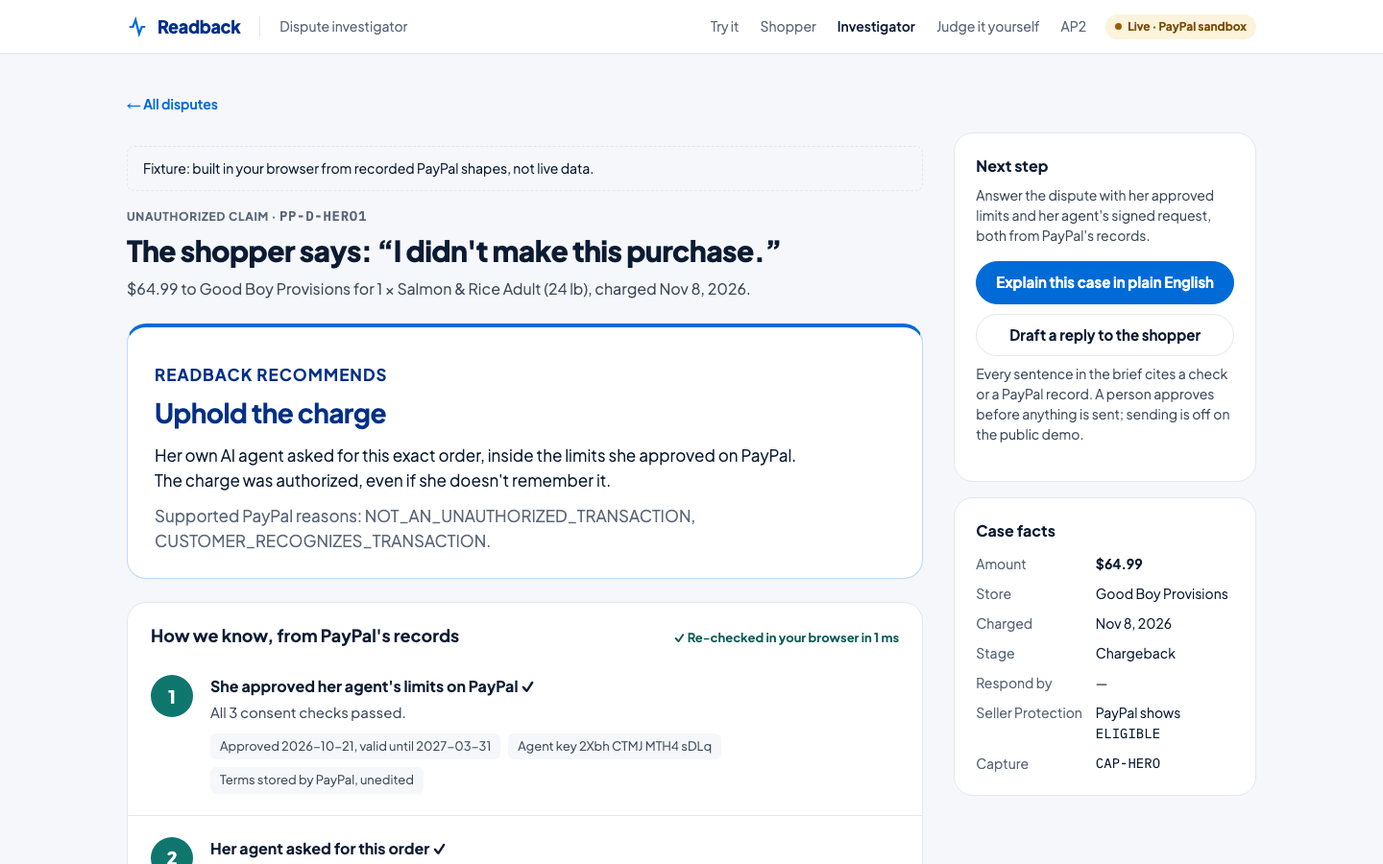
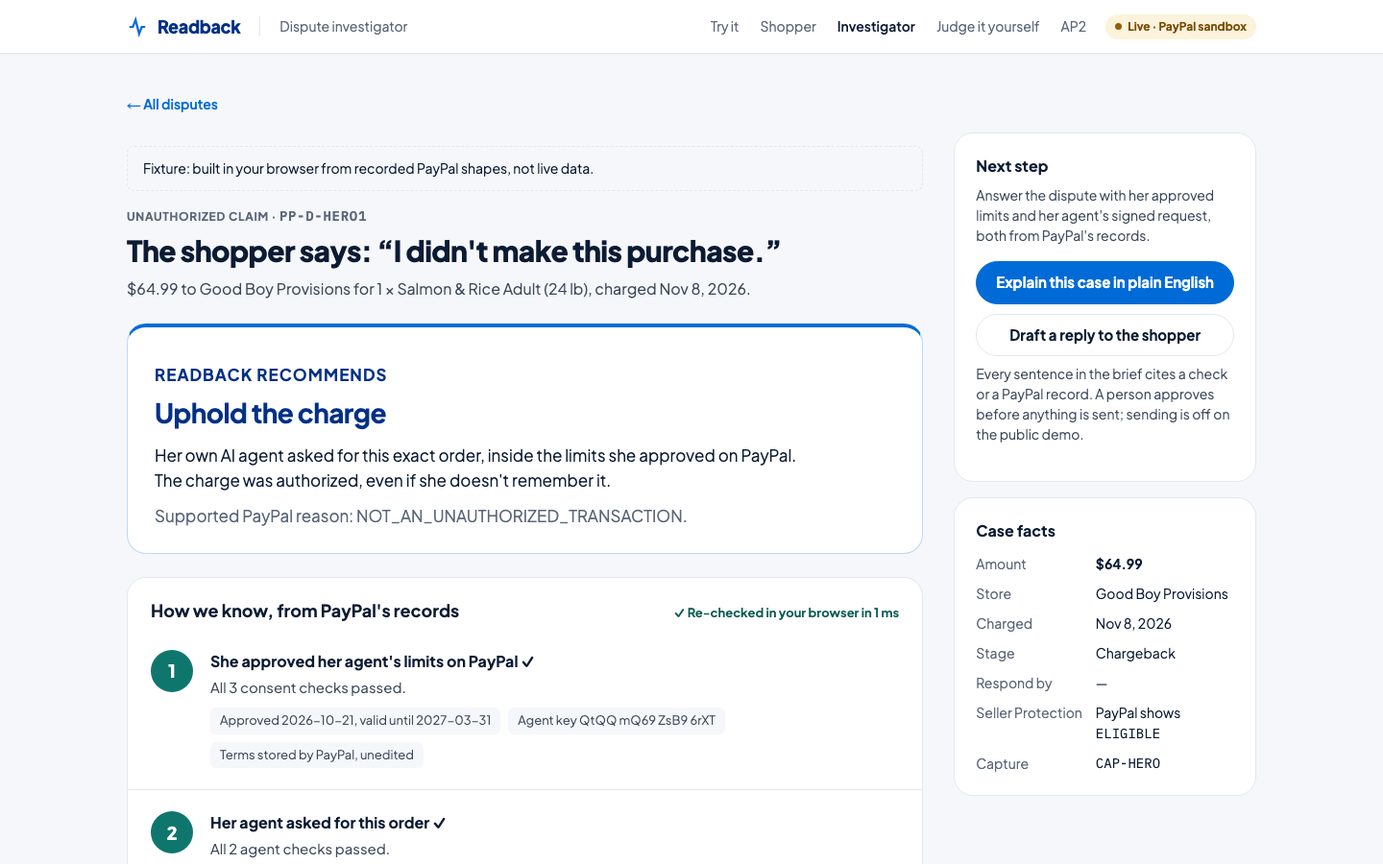
docs: state seller-favor's real precondition; record the Oct 25 audit (ADR 0006)
Every claim that a merchant can't fabricate the shopper's agent now says the
key binding comes from an honest setup (T21), and that PayPal doesn't keep the
summary she saw. "PayPal enforces one charge per period" says while the
merchant's duplicate-invoice blocking is on. WHY-PAYPAL adds that a shopper is
never worse off than under a plain billing agreement, and no longer claims a
label-stripped direct charge stays linked. SPEC §5.6 matches the engine (rows
9, 10, 13; check 3's window; check 10's DELIVERED; history built from payments
only; the threshold guarding every seller-favor row). THREAT-MODEL states the
delegation policy (T1), the labeled-only fallback (T2) and key custody (T16).

diff --git a/docs/SPEC.md b/docs/SPEC.md
@@ -15,7 +15,7 @@ Research current as of Oct 14, 2026. This revision incorporates an independent s
 
 **Maya tells her AI once what it may buy. PayPal holds that promise, her agent signs every purchase, and when anyone says "my AI bought that," the truth takes one click.**
 
-- **Consent.** Maya approves her agent's terms on PayPal's own approval page: merchant, item, cap, cadence, dates, and her agent's key fingerprint. PayPal stores them, and nobody can edit them afterward.
+- **Consent.** Maya approves her agent's terms on PayPal's own approval page, which shows a summary carrying her agent's key fingerprint. PayPal stores the exact terms (merchant, item, cap, cadence, dates, fingerprint), and nobody can edit them afterward. PayPal doesn't keep the summary she saw (spike step 2), so the key binding rests on an honest setup and her fingerprint comparison (T21); seller-favor suggestions therefore also require history (check 11).
 - **The agent.** Her assistant (Claude, or any MCP-capable assistant) is the brain. It holds no keys and has no way to pay. A small **agent runtime** on Maya's side holds the agent's private key (P-256), checks each request against her terms, and signs an **AP2-style closed mandate**.
 - **Purchases.** Each purchase is a PayPal order charged under the agreement. It carries:
   - the signed mandate;
@@ -72,7 +72,7 @@ Full sourcing in `docs/WHY-PAYPAL.md`. The essentials:
 - the first to draft disputes with AI.
 
 ### 1.1 Who adopts it
-- **Shoppers** get a hard limit their agent can't exceed, a receipt that shows what they agreed to, and a merchant who can't charge in their agent's name.
+- **Shoppers** get a hard limit their agent can't exceed, a receipt that shows what they agreed to, and a merchant who can't charge in their agent's name without a signature by the key bound at setup (an honest setup is the precondition, T21).
 - **Merchants** adopt it because it wins the disputes they should win. It's believed because it recommends refunds for the ones they should lose. Integrating it is about 10 lines on top of an existing PayPal integration (§5.8).
 - **PayPal** is the natural long-term owner. One API addition, in `docs/PROPOSAL-agent-terms.md`, makes the key binding PayPal-attested and closes the remaining gaps.
 - **Agents** only need to speak MCP; the runtime does the rest.
@@ -104,7 +104,7 @@ Full sourcing in `docs/WHY-PAYPAL.md`. The essentials:
 | Agreement type | Payment token | `usage_pattern: RECURRING_PREPAID` (PayPal refuses a `billing_plan` with `UNSCHEDULED_PREPAID`; spike step 2), `usage_type: MERCHANT`, `customer_type: CONSUMER`, `permit_multiple_payment_tokens: true` | No |
 | Who approved | Payment token | `payer_id`, `email_address`, `customer.id` | No |
 | Terms shown on PayPal's approval page | Setup token request | `billing_plan.name` only, prefixed "to <brand>:" (display only; merchant-supplied; **not returned** on GET). The stored `description` is never shown to the buyer (spike step 2) | n/a |
-| Which agreement a charge used | Order | PayPal's `payment_source.paypal.attributes.vault.id` if present; **the sandbox never sends it** (spike step 3). Otherwise the agreement the labels (`custom_id`, `invoice_id`) name, accepted only with PayPal's payer match (check 2a). `stored_credential` is merchant-declared, shown but never decisive | No |
+| Which agreement a charge used | Order | PayPal's `payment_source.paypal.attributes.vault.id` if present; **the sandbox never sends it** (spike step 3). Otherwise the agreement the labels (`custom_id`, `invoice_id`) name, accepted only with PayPal's payer match (check 2a). The payer match shows the agreement belongs to the payer charged, not that this agreement (rather than another of hers with the same merchant) paid, so the link is partly merchant-asserted; it can count for the merchant only together with her agent's signature for that same agreement. `stored_credential` is merchant-declared, shown but never decisive | No |
 | The agent's signed request | Order | `purchase_units[0].items[0].description` (≤2048 retained): the compact JWS | Merchant writes it, but can't forge it without the agent's private key |
 | Each charge | Order and capture | amounts and `amount.breakdown`; `items[]` (`name`, `sku`, `quantity`, `unit_amount`); `invoice_id`; `custom_id`; `purchase_units[0].description` | Merchant sets labels; PayPal records amounts, payer, time, and payment source |
 | One charge per period | Order | Canonical `invoice_id = RB-<tokenId>-P<NNN>`; PayPal rejects duplicates (`DUPLICATE_INVOICE_ID`) by default | — |
@@ -371,15 +371,15 @@ Sam can:
 | 1 | Consent | **Consent on PayPal** | A payment token exists, its `payer_id` matches the order's `payer.payer_id`, and its terms parse. If the token was deleted, the secondary copy from the charges is used and labeled. |
 | 2a | Consent | **Agreement link** | PayPal's vault echo (`attributes.vault.id`) if present; otherwise the agreement named by `custom_id` and/or `invoice_id` (labels that name different agreements = no link). A label-named agreement counts only with PayPal's payer match (check 1). If the agreement is gone and there's no echo, the link is secondary, which withholds a seller-favor suggestion only. Rule: merchant-written labels can count against the merchant, never for it; the signature by the approved key for that agreement (check 3) is what can favor the merchant. History entries (check 11) count only with PayPal's payer match plus a mandate signed by the approved key naming this agreement. `stored_credential` is merchant-declared and never decides a check. |
 | 2b | Agent | **Labels present** | `custom_id` and `invoice_id` parse and name that token. |
-| 3 | Agent | **Requested by her agent** | The JWS passes hygiene and verifies. Its key's thumbprint prefix equals the approved fingerprint. Its payload matches the order (`agr`, SKU, quantity, unit, amount, `p`). The capture time is within `[iat − 60s, exp + 60s]`. No other capture under the token carries the same mandateHash. |
+| 3 | Agent | **Requested by her agent** | The JWS passes hygiene and verifies. Its key's thumbprint prefix equals the approved fingerprint. Its payload matches the order (`agr`, SKU, quantity, unit and amount compared as integer cents, `p`). The capture time is within `[iat − 120s, exp + 60s]`: the gate accepts `iat` up to 60 s ahead of its clock and stops 60 s before `exp`, and PayPal's clock may be 60 s off (T27). No other capture under the token carries the same mandateHash. |
 | 4 | Consent | **Active at charge** | The capture completed with the saved wallet, which PayPal refuses on cancelled agreements. No deletion event before the capture time, if events are retrievable. |
 | 5 | Terms | **Within cap** | `amount.value` (integer cents) ≤ cap, and equals the signed `amt`. |
 | 6 | Terms | **Approved item** | Order SKU and quantity match the terms and the signed mandate. |
 | 7 | Terms | **One per period** | `invoice_id` byte-equals the canonical `RB-<tokenId>-P<NNN>`, with NNN = period(`iat`) = `p`. While PayPal's duplicate blocking is on, at most one charge exists per period. If blocking is off **[spike]**, this must be the earliest completed capture of its period. |
 | 8 | Terms | **Within dates** | `iat` and the capture time fall within the dates. |
 | 9 | Terms | **Bound to these terms** | `th` and the termsHash in `custom_id` equal the hash of the token's terms and of the charge's description copy. |
-| 10 | Delivery | **Fulfilled (merchant-reported)** | A tracker on the order with status SHIPPED, and the order's shipping address equals the shipping address on the payment token (approved at setup), when the token has one. |
-| 11 | Delivery | **History** | Prior captures under this agreement with no dispute (via `disputed_transaction_id`), and their age. **Provisional** while the capture is under 3 hours old. Inspired by Visa CE 3.0, but weaker. |
+| 10 | Delivery | **Fulfilled (merchant-reported)** | A tracker on the order with status SHIPPED or DELIVERED, and the order's shipping address equals the shipping address on the payment token (approved at setup), when the token has one. |
+| 11 | Delivery | **History** | Prior captures under this agreement with no dispute (via `disputed_transaction_id`), fully completed (refunded ones don't count), each verified through PayPal, and their age. History is built from Transaction Search payments only (`T00xx`, not denied), each capture once. **Provisional** while the capture is under 3 hours old. Inspired by Visa CE 3.0, but weaker. |
 
 **Classification** (deterministic; first match wins; every result lists all failed checks). In preview mode (a capture with no dispute), the reason is treated as UNAUTHORISED: rows 1–4 and 11–13 apply, and rows 0 and 5–10 can't match. The view is labeled "if disputed."
 
@@ -394,18 +394,18 @@ Sam can:
 | 6 | NOT_RECEIVED and check 10 passes | Shipment reported (merchant-attested) | None; supply `PROOF_OF_FULFILLMENT` |
 | 7 | NOT_AS_DESCRIBED | Item matches the signed and approved SKU; contents unverifiable | None |
 | 8 | INCORRECT_AMOUNT | Amount as authorized | `SELLER_FAVOR` |
-| 9 | DUPLICATE_TRANSACTION | Single charge in its period | `SELLER_FAVOR` |
-| 10 | CANCELED_RECURRING_BILLING | Charged before cancellation | `SELLER_FAVOR` |
+| 9 | DUPLICATE_TRANSACTION | No other labeled charge in its period | None. Readback sees only labeled charges; PayPal sees every charge to the wallet (audit Oct 25) |
+| 10 | CANCELED_RECURRING_BILLING | In terms; the cancellation time isn't readable | None, until PayPal's cancellation record is readable (spike step 5) |
 | 11 | UNAUTHORISED and check 10 fails | Authorized by terms; fulfillment not shown | None |
 | 12 | UNAUTHORISED and history below threshold | Consent authenticity unverified | None; route to PayPal account review |
-| 13 | UNAUTHORISED, all checks pass, threshold met | First-party misuse | `SELLER_FAVOR`. Shows the PayPal reasons this evidence supports: `NOT_AN_UNAUTHORIZED_TRANSACTION`, `CUSTOMER_RECOGNIZES_TRANSACTION` |
+| 13 | UNAUTHORISED, all checks pass, threshold met | Signed by her approved agent, within her terms | `SELLER_FAVOR`. Shows the PayPal reason this evidence supports: `NOT_AN_UNAUTHORIZED_TRANSACTION` |
 
 **Modifiers:**
 - **Label-dependent parts are provisional.** Check 3's mandateHash-uniqueness part and check 11 read only label-bearing captures from Transaction Search. Both are **provisional** while a capture is under 3 hours old.
 - **Secondary terms.** Any `SELLER_FAVOR` that relied on the secondary terms copy is downgraded to **None**, labeled "terms merchant-attested only."
 - **Provisional history.** If history is provisional, any `SELLER_FAVOR` that depends on it becomes **None**.
 
-**History threshold** (a stated policy constant): at least 2 prior undisputed captures, the earliest at least 7 days before this one. A valid agent signature does **not** relax it, because whoever approved the agreement chose the key.
+**History threshold** (a stated policy constant): at least 2 prior undisputed captures, the earliest at least 7 days before this one. A valid agent signature does **not** relax it, because whoever approved the agreement chose the key. It guards **every** `SELLER_FAVOR` row, whatever reason the buyer filed under (audit Oct 25): below it, the suggestion becomes None.
 
 **After a sandbox ruling.** The page shows PayPal's own `adjudications[].reason`; sandbox `adjudicate` accepts only the outcome.
 

diff --git a/docs/WHY-PAYPAL.md b/docs/WHY-PAYPAL.md
@@ -56,7 +56,7 @@ None of this is legal advice. It is what the primary sources say, and it explain
 |---|---|---|
 | A transfer by someone the consumer gave access to is not "unauthorized" unless the consumer has told the institution to stop. | Reg E §1005.2(m)(1) [L1] | Consent given on PayPal's authenticated approval page; revocation as PayPal itself sees it (token deleted, charges refused) |
 | If that person exceeds the authority given, the consumer is liable until they notify the institution. | Reg E comment 2(m)-2 [L2] | The exact scope approved: merchant, item, cap, cadence, dates |
-| Preauthorized transfers must be authorized in writing, signed or similarly authenticated by the consumer. | Reg E §1005.10(b) [L3] | Approval on PayPal's own logged-in page, with the terms shown |
+| Preauthorized transfers must be authorized in writing, signed or similarly authenticated by the consumer. | Reg E §1005.10(b) [L3] | Approval on PayPal's own logged-in page. PayPal stores the merchant-declared terms at approval time and they can't be edited; the summary shown to her isn't retained (T21) |
 | Once notified of a revocation, the institution must block future payments. | Reg E comment 10(c)-2 [L3] | PayPal refuses charges on a cancelled agreement (`AGREEMENT_ALREADY_CANCELLED` at authorize/capture) [A3] |
 | Varying amounts need advance notice. The payee or institution may instead offer the consumer a range that could be anticipated. | Reg E §1005.10(d) and comment 10(d)(2)-1 [L3] | The approved cap ("up to $65 per order") can support that kind of range. Readback doesn't claim it satisfies the notice rule on its own |
 | Credit-card funding: unauthorized use means use without actual, implied, or apparent authority. | Reg Z §1026.12(b) [L4] | Same record of scope and revocation |
@@ -186,10 +186,10 @@ We don't claim a dollar figure for losses avoided. PayPal doesn't break out agen
    - **Closed mandates:** ES256-signed requests stored inside each PayPal order.
    - **Reuse without state:** AP2 handles reuse across purchases with constructs that require tracking previous presentations. Readback reuses one approval across periods statelessly, because PayPal's invoice uniqueness enforces one purchase per period.
    - No agent platform, network, or new credential issuer has to adopt anything.
-2. **Once the agreement is approved, a merchant can't fabricate the shopper's agent.** The signing key lives only with the shopper's agent. A charge with no valid signed request is therefore suggested for the buyer, even if it fits every term. Readback finds that charge through its labels, confirmed by PayPal's record of who paid; PayPal doesn't echo which saved wallet paid (spike step 3), so a merchant who strips both labels and the mandate leaves the charge unlinked from merchant-side data (no suggestion either way). Terms alone can't catch this case, and signatures alone can't decide it without PayPal's records. (Setup-time key substitution is a separate, documented risk; see the hard questions below.)
+2. **Once an honest setup has bound her agent's key, a merchant can't fabricate her agent's requests.** The signing key lives only with the shopper's agent, provided the fingerprint she approved is her agent's (T21). A charge with no valid signed request is therefore suggested for the buyer, even if it fits every term. Readback finds that charge through its labels, confirmed by PayPal's record of who paid; PayPal doesn't echo which saved wallet paid (spike step 3), so a merchant who strips both labels and the mandate leaves the charge unlinked from merchant-side data (no suggestion either way). Terms alone can't catch this case, and signatures alone can't decide it without PayPal's records. (Setup-time key substitution is a separate, documented risk; see the hard questions below.)
 3. **Terms that can't be edited.** The Vault API has no update operation for payment tokens. [A1] Once the shopper approves, the terms and the agent fingerprint are fixed. Changing them takes a new approval.
 4. **PayPal enforces two of the limits itself.**
-   - **One charge per period.** Each charge's invoice ID encodes its billing period, so PayPal rejects a second charge in the same period. This invoice-ID uniqueness is on by default but merchant-configurable. [A3]
+   - **One charge per period.** Each charge's invoice ID encodes its billing period, so PayPal rejects a second charge in the same period. This invoice-ID uniqueness is on by default but merchant-configurable. [A3] With it off, Readback still flags a later labeled charge in the same period, but a merchant who also strips the labels leaves that charge unlinked (T3).
    - **No charges on a cancelled agreement.** PayPal refuses them. [A3]
    - Cap, item, and dates are enforced by the agent's runtime and by the merchant gate, and re-checked from PayPal's records.
 5. **Built for the adjudicator.** The investigator gets three things:
@@ -231,9 +231,9 @@ Then the consent itself is fraudulent. In US terms, access obtained through frau
 You don't have to.
 - The terms and the agent fingerprint come from the payment token, which the merchant can't edit.
 - Charges, invoice IDs, trackers, and disputes come from PayPal's APIs.
-- The merchant can't forge the agent's signature, because the key lives only on the shopper's side.
+- The merchant can't forge the agent's signature, because the key lives only on the shopper's side, provided the fingerprint she approved is her agent's (T21).
 - The evidence file is a convenience. Its JSON appendix lists every PayPal object ID and the signed mandates, so anyone with API access to the merchant's account can re-derive every check.
-- A merchant who charges the saved wallet directly, bypassing the gate and stripping labels, is still linked to the agreement through PayPal's record of which saved wallet paid. With no valid signed request, the suggestion favors the buyer.
+- A merchant who charges the saved wallet directly and bypasses the gate is linked to the agreement through the labels it left plus PayPal's record of who paid. With no valid signed request, the suggestion favors the buyer. If it strips both labels and the mandate, the charge is unlinked from merchant-side data and Readback makes no suggestion either way (spike step 3, T3).
 - Where only merchant-written data is available (for example, terms read from charge copies after the shopper deletes the agreement), Readback labels it and withholds any seller-favor suggestion.
 - **What remains, stated honestly:**
   - In this build, the investigator page is served by the merchant's deployment, so results are re-derivable but not independent. PayPal hosting it would make it independent.
@@ -268,7 +268,7 @@ We found no PayPal document that says either way. Readback doesn't assert it. It
 
 **Who adopts it:**
 - **Merchants adopt it now.** It wins the disputes they should win, and it's only believed because it recommends refunds for the ones they should lose.
-- **Shoppers get a hard limit.** Their agent can't spend outside what they approved on PayPal, and a merchant can't charge in their agent's name without a signature.
+- **Shoppers get a hard limit.** Their agent can't spend outside what they approved on PayPal, and a merchant can't charge in their agent's name without a signature by the key bound at setup (an honest setup is the precondition, T21). A shopper is never worse off than under a plain billing agreement: the most a dishonest adopter gains is charging without her agent asking, bounded by the cap and the cadence.
 - **PayPal is the natural long-term owner.**
 
 **From the hackathon build:**
@@ -306,7 +306,7 @@ That closes the remaining gaps (setup-time key swap, terms after revocation, uns
   - duplicate-invoice blocking;
   - whether unauthorized disputes open as inquiries;
   - what happens when the buyer cancels from their side.
-- **Reporting delay.** Charge history comes from Transaction Search, which can lag up to three hours. [A5] This affects history checks only. Duplicate-period protection is enforced by PayPal at charge time.
+- **Reporting delay.** Charge history comes from Transaction Search, which can lag up to three hours. [A5] This affects history checks only. Duplicate-period protection is enforced by PayPal at charge time, while the merchant's duplicate-invoice blocking is on.
 - **Agent identity proves "which agent," not "whose agent."** Signatures prove that a purchase came from the agent key the shopper approved. They don't attest who built or operates that agent. A key swap at setup is stopped only by the shopper comparing fingerprints (threat model T21).
 - **Demo-grade agent access.** The shopper's agent runtime is protected by a secret connector URL in the demo; production would use OAuth.
 - **Signed mandates are a compact JWS (ES256), not AP2's SD-JWT verifiable credentials.** The open mandate is authenticated by PayPal's approval rather than a user signature.

diff --git a/README.md b/README.md
@@ -37,7 +37,7 @@ Maya's assistant ──asks──▶ agent runtime ──signs (ES256)──▶ 
                        investigator view & re-verify in the browser ◀──reads─────────────┘
 ```
 
-1. **Consent on PayPal.** Maya says it once; her agent reads it back as exact terms. She approves them on **PayPal's own approval page**: merchant, item, cap, cadence, dates and her agent's key fingerprint. PayPal stores them in the payment token's `description`, which can't be edited afterwards.
+1. **Consent on PayPal.** Maya says it once; her agent reads it back as exact terms. She approves them on **PayPal's own approval page**, which shows a summary with her agent's key fingerprint; she approves only if it matches what her agent shows. PayPal stores the exact terms (merchant, item, cap, cadence, dates, fingerprint) in the payment token's `description`, which can't be edited afterwards. The summary she saw isn't kept by PayPal, which is why a seller-favor ruling also needs history (see [Limitations](#limitations)).
 2. **Signed requests.** Each purchase is a closed mandate (compact JWS, ES256 over P-256) signed by her agent runtime, which refuses anything outside the terms *before* signing.
 3. **A deterministic gate.** The merchant's gate verifies the signature, re-reads the terms from PayPal, checks every limit, and charges the saved wallet with an `invoice_id` naming the period, so **PayPal itself refuses a second charge** in the same period.
 4. **Eleven checks.** When a dispute arrives, Readback rebuilds the case from PayPal's records (dispute → capture → order → terms), verifies the signature, runs eleven checks, and suggests an outcome only when the evidence supports one.
@@ -56,7 +56,7 @@ Maya's assistant ──asks──▶ agent runtime ──signs (ES256)──▶ 
 |---|---|
 | Vault v3 setup and payment tokens (`RECURRING_PREPAID`) | The shopper's approved terms and agent fingerprint, held by PayPal and uneditable |
 | Orders v2 with `vault_id` and `stored_credential` | Merchant-initiated charges carrying the signed mandate, terms copy, `custom_id` and period `invoice_id` |
-| PayPal's duplicate-invoice guard | One charge per period, enforced by PayPal, not by Readback |
+| PayPal's duplicate-invoice guard | One charge per period, enforced by PayPal while the merchant's duplicate-invoice blocking is on (the default; merchant-configurable) |
 | Payments v2 captures | The link from a dispute to the order and agreement |
 | Disputes v1 | Read disputes; respond through whichever action the dispute's own links offer (supporting info or evidence, multipart) |
 | Transaction Search | Prior undisputed charges under the agreement, confirmed by PayPal's payer match |
@@ -81,11 +81,11 @@ Claude never holds a key and never makes an allow/deny or ruling decision. Produ
 
 **Interoperability.** Readback runs AP2 v0.2's autonomous-purchase model on PayPal's existing rails, and `/ap2` verifies AP2's own published mandate chain in the browser.
 
-**Try to break it.** `/judge` runs eight attacks through the product's real layers in your browser and shows where each one dies: a poisoned product page stops at the agent runtime; a forged key, an edited request and a fake sale price stop at the checkout gate; a second bag and a charge after cancelling stop at PayPal; and the store charging her wallet itself gets past all three and is caught by the investigator.
+**Try to break it.** `/judge` runs eight attacks through the product's real layers in your browser and shows where each one dies: a poisoned product page stops at the agent runtime; a forged key, an edited request and a fake sale price stop at the checkout gate; a second bag and a charge after cancelling stop at PayPal; and the store charging her wallet itself gets past all three and is caught by the investigator. (The lab's dishonest store leaves its invoice label; one that strips every label leaves the charge unlinked from merchant-side data, so Readback makes no suggestion either way; THREAT-MODEL T3.)
 
 ![Attack lab: where each attack was stopped](docs/assets/attack-lab.png)
 
-**Tested.** `@readback/core`: 153 tests at about 98% coverage, property-based tamper fuzzing, and a headless-browser run. 59 labeled eval scenarios. End-to-end judge flow in Chromium. An independent security review found two seller-leaning issues; both are fixed and kept as regression tests ([ADR 0005](docs/decisions/0005-independent-audit-oct15.md)). Threats T1–T34 and their mitigations: [docs/THREAT-MODEL.md](docs/THREAT-MODEL.md).
+**Tested.** `@readback/core`: 154 tests at about 98% coverage, property-based tamper fuzzing, and a headless-browser run. 59 labeled eval scenarios. End-to-end judge flow in Chromium. Two independent reviews (Oct 15 and Oct 25) attacked the engine; every finding is fixed and kept as a regression test, including the Oct 25 reviewers' 79 probes in `evals/audit/` ([ADR 0005](docs/decisions/0005-independent-audit-oct15.md), [ADR 0006](docs/decisions/0006-audit-oct25.md)). Threats T1–T34 and their mitigations: [docs/THREAT-MODEL.md](docs/THREAT-MODEL.md).
 
 ## Design
 
@@ -105,7 +105,7 @@ The investigator queue (AG Grid) shows each dispute's evidence at a glance; the 
 
 ## Potential impact
 
-- **Shoppers** can let an agent spend within limits they approved on PayPal, and a merchant can't charge in their agent's name without the agent's signature.
+- **Shoppers** can let an agent spend within limits they approved on PayPal, and a merchant can't charge in their agent's name without a signature by the key bound at setup. An honest setup is the precondition (T21).
 - **Merchants** get evidence that wins the disputes they should win, with a 10-line integration (below) and nothing new to store.
 - **PayPal** gets the record its own review currently lacks, on rails it already runs. [docs/PROPOSAL-agent-terms.md](docs/PROPOSAL-agent-terms.md) sketches the one API change (an `agent_terms` object on Vault payment tokens) that would move these checks inside PayPal.
 
@@ -116,8 +116,8 @@ Developer surfaces: `@readback/core` (the checks), `npx @readback/verify <disput
 Readback isn't the first to record what a user authorized; AP2, Mastercard Verifiable Intent, Amex and others do or plan some of this ([WHY-PAYPAL.md §5](docs/WHY-PAYPAL.md) lists them honestly). What's new:
 
 1. **AP2's autonomous model on PayPal rails that exist today**: PayPal's approval page is the trusted surface, the stored terms are the open mandate, and agent-signed requests inside each order are the closed mandates. No new network, issuer or protocol.
-2. **A merchant can't fabricate the shopper's agent.** A charge with no valid signature is suggested for the buyer even when it fits every term. Terms alone can't catch that; signatures alone can't decide it without PayPal's records.
-3. **PayPal enforces limits itself**: one charge per period through invoice uniqueness, and no charges on a cancelled agreement.
+2. **Once an honest setup has bound her agent's key, a merchant can't fabricate her agent's requests.** A charge with no valid signature is suggested for the buyer even when it fits every term. Terms alone can't catch that; signatures alone can't decide it without PayPal's records.
+3. **PayPal enforces limits itself**: one charge per period through invoice uniqueness (while the merchant's duplicate-invoice blocking is on, the default), and no charges on a cancelled agreement.
 4. **Built for the adjudicator, not the merchant's advocate**: deterministic checks, re-derivable in the browser, with no suggestion where the evidence can't support one.
 5. **Zero data outside PayPal.**
 

diff --git a/docs/decisions/0006-audit-oct25.md b/docs/decisions/0006-audit-oct25.md
@@ -1,0 +1,41 @@
+# 0006 — Independent review, Oct 25 (findings and fixes)
+
+Status: accepted (2026-10-25). Three independent reviewers (fresh Fable 5.1 sessions that didn't write the code) attacked the engine from three sides: can a dishonest merchant win a case it should lose; can an honest party be hurt or the gate be tricked; is the concept itself sound. Code findings had to be proven with a failing test. Every proof was re-run against the current code before being accepted; all reproduced. The probes are now the regression suite in `evals/audit/` (79 tests).
+
+## Bottom line
+
+- **The money path held.** No way was found to charge outside the approved terms, twice in a period, after revocation, or under the wrong agreement. Forged keys, edited requests, JWS header tricks, non-canonical money and terms, replays and concurrent submissions were all refused.
+- **The core invariant held.** In 48 merchant-side attacks, no charge lacking a valid signature by the approved key reached a seller-favor suggestion.
+- **The findings were the investigator claiming more than PayPal's records show**, and checks that ruled against honest charges on edge cases. All are fixed below.
+
+## Findings and fixes
+
+| # | Direction | Finding | Fix | Test |
+|---|---|---|---|---|
+| 1 | Seller-leaning | A duplicate-charge dispute was suggested for the seller as "the single charge in its period", inferred from silence: an unlabeled second charge is invisible to Readback | Row 9 makes no suggestion; PayPal sees every charge to the wallet | `evals/audit/sibling-blindness.test.ts` |
+| 2 | Seller-leaning | The history threshold guarded only "unauthorized" disputes; a key swapped in at setup (T21) won first-charge disputes filed under other reasons | The threshold guards every seller-favor row | `evals/audit/reason-skips-history.test.ts`, `classify.test.ts` |
+| 3 | Seller-leaning | "Charged before cancellation" had no cancellation record behind it (buyer-side cancel unconfirmed, spike step 5) | Row 10 makes no suggestion until PayPal's cancellation record is readable | `classify.test.ts` |
+| 4 | Seller-leaning (wording) | Row 13 said "first-party misuse" and suggested `CUSTOMER_RECOGNIZES_TRANSACTION`, a motive the evidence doesn't show | Row 13 is "signed by her approved agent, within her terms", with `NOT_AN_UNAUTHORIZED_TRANSACTION` only | `classify.test.ts` |
+| 5 | Seller-leaning | A capture on the edge of two 31-day search windows counted twice toward history | History keeps each capture once | `evals/audit/findings.test.ts` (F4) |
+| 6 | Seller-leaning | Refunded prior charges counted as verified history | Only fully completed priors qualify | `cases.ts`; covered by the history tests |
+| 7 | Honest merchant | A tracker PayPal had moved to DELIVERED read as "not shipped" | Check 10 accepts SHIPPED or DELIVERED | `evals/audit/findings.test.ts` (F1) |
+| 8 | Honest merchant | Any Transaction Search row carrying the labels counted as a charge: PayPal writes dispute holds (`T1110`/`T1111`, seen live), and declined attempts don't burn the invoice | History keeps payments only (`T00xx`, not denied) | `evals/audit/findings.test.ts` (F3) |
+| 9 | Honest merchant | The gate accepted a request up to `exp`, but check 3 allowed only 60 s after it; and a runtime clock 60 s ahead plus PayPal 1 s behind failed check 3 | The gate stops 60 s before `exp`; check 3 allows `iat − 120 s` | `crypto.test.ts`, `evals/audit/findings.test.ts` (F2) |
+| 10 | Rule | Signed and order amounts were compared as strings | Integer cents | `checks.ts` |
+| 11 | Idempotency | ECDSA signatures have a second valid encoding; request IDs came from the whole JWS, so the twin was a new request at PayPal | Request IDs come from the signed content (`requestHash`); both encodings are one request. The frozen `custom_id` format is unchanged | `evals/audit/malleable-signature.test.ts`, `held.test.ts` |
+| 12 | Wording | The agent said "nothing was charged" when the shop didn't answer | It says the outcome is unknown and that asking again is safe | — |
+| 13 | Availability | The demo direct charge refused a judge who approved just before UTC midnight | Agreements from today or yesterday | `demo.test.ts` |
+
+## Concept findings (wording, now fixed)
+
+- **Seller-favor rests on an honest setup.** The merchant writes the key binding into the terms at setup, and PayPal doesn't keep the summary the shopper saw (spike step 2). README, SPEC and WHY-PAYPAL now state that precondition wherever they claim a merchant can't fabricate her agent, and that a shopper is never worse off than under a plain billing agreement. PROPOSAL-agent-terms.md is what makes the binding PayPal-attested.
+- **"PayPal enforces one charge per period"** now says "while the merchant's duplicate-invoice blocking is on (the default)".
+- **Delegation:** an injected in-terms purchase is judged as authorized (T1), consistent with consented payment series.
+- **Key custody** is stated as an assumption (T16).
+- **Payer match** links "an agreement of this payer", not necessarily this one; it counts for the merchant only with her agent's signature for that agreement (SPEC §3).
+
+## Open, needs the sandbox
+
+- Spike step 5: does a buyer-side cancel delete the token? Row 10 can make a suggestion again only once that is readable.
+- Spike step 7: an `UNAUTHORISED` dispute on a hero capture.
+- Whether Transaction Search returns `payer_info` for vault charges. If it does, Readback could find unlabeled sibling charges directly and row 9 could rule again.

diff --git a/docs/THREAT-MODEL.md b/docs/THREAT-MODEL.md
@@ -38,7 +38,9 @@ Where only merchant-attested data is available, the result is labeled. A `SELLER
 
 **Evals:** six attack fixtures (hidden instructions, fake system text, price swap, SKU swap, merchant redirect, quantity bump). Target: 100% refused at the runtime, and 100% refused at the gate when the runtime is bypassed.
 
-**Not stopped:** an injected page could make the agent skip a legitimate reorder. That costs a missed reorder, not money.
+**Not stopped:**
+- An injected page could make the agent skip a legitimate reorder. That costs a missed reorder, not money.
+- An injection that triggers an in-terms reorder she didn't want isn't stopped, and a dispute about it is judged as authorized: she delegated "any in-terms request signed by this key," bounded by the cap, the cadence and the dates. That matches how a consented series of payments is treated (Reg E comment 2(m)-2, PSRs reg 67; WHY-PAYPAL §2).
 
 ### T2. A buggy or compromised agent tries to buy repeatedly
 
@@ -47,7 +49,7 @@ Where only merchant-attested data is available, the result is labeled. A `SELLER
 - One order per period is enforced by PayPal: every charge's canonical `invoice_id` encodes its period (`RB-<token>-P003`). PayPal rejects a second charge with the same invoice ID (`DUPLICATE_INVOICE_ID`) while "block accidental payments" is on. That is the default, and the spike verifies it.
 - `PayPal-Request-Id` is derived from the mandate hash. A retried or double-submitted mandate returns the original order instead of creating a new one.
 
-**Not stopped:** if the merchant turns off duplicate-invoice blocking, a second charge in a period isn't refused at charge time. Check 7's fallback rule still flags any non-earliest charge in a period, so the dispute favors the buyer.
+**Not stopped:** if the merchant turns off duplicate-invoice blocking, a second charge in a period isn't refused at charge time. Check 7's fallback rule still flags any non-earliest *labeled* charge in a period, so the dispute favors the buyer. A second charge with its labels stripped is invisible to Readback (T3); that's why a duplicate-charge dispute gets no suggestion (row 9, audit Oct 25) rather than "the only charge in its period."
 
 ### T3. The merchant charges without a valid request, or outside the terms
 *Example:* Sam's code is buggy, or Sam is dishonest. He calls Orders with the saved wallet directly and skips the gate. He may leave `custom_id` and `invoice_id` empty, or garble them, to hide the charge.
@@ -172,6 +174,8 @@ Where the dispute opens in inquiry, Readback first sends her the terms she appro
 - Maya approves her agent's key fingerprint on PayPal's page.
 - Every purchase carries a mandate signed by that key.
 - The investigator re-verifies it (check 3).
+
+**Who holds the key** is an assumption, not something Readback controls. An agent platform holding one key for many users makes the fingerprint identify the platform, not her agent instance (the `agr` binding still stops cross-user reuse). A hosted per-user runtime is a custodian (T20, T22). A key on her device breaks human-not-present buying while the device is off. The verdict logic survives all three; "which agent asked" becomes "which key signed." A lost key fails safe: a new approval is needed (T18); rotation within an agreement is a non-goal.
 
 **Not addressed: who built or operates the agent.** Agent-provider attestation belongs to network protocols such as Visa's Trusted Agent Protocol and Mastercard Agent Pay, and is out of scope. See also T21 for setup-time key substitution.
 
